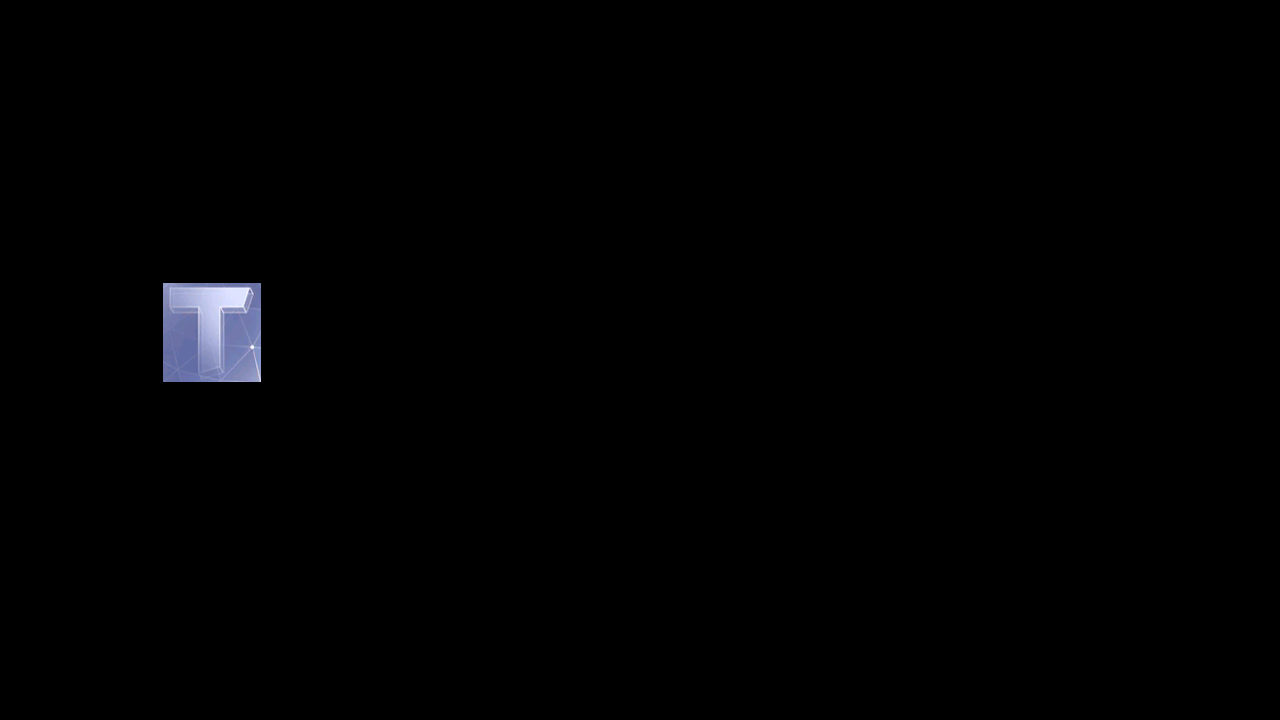
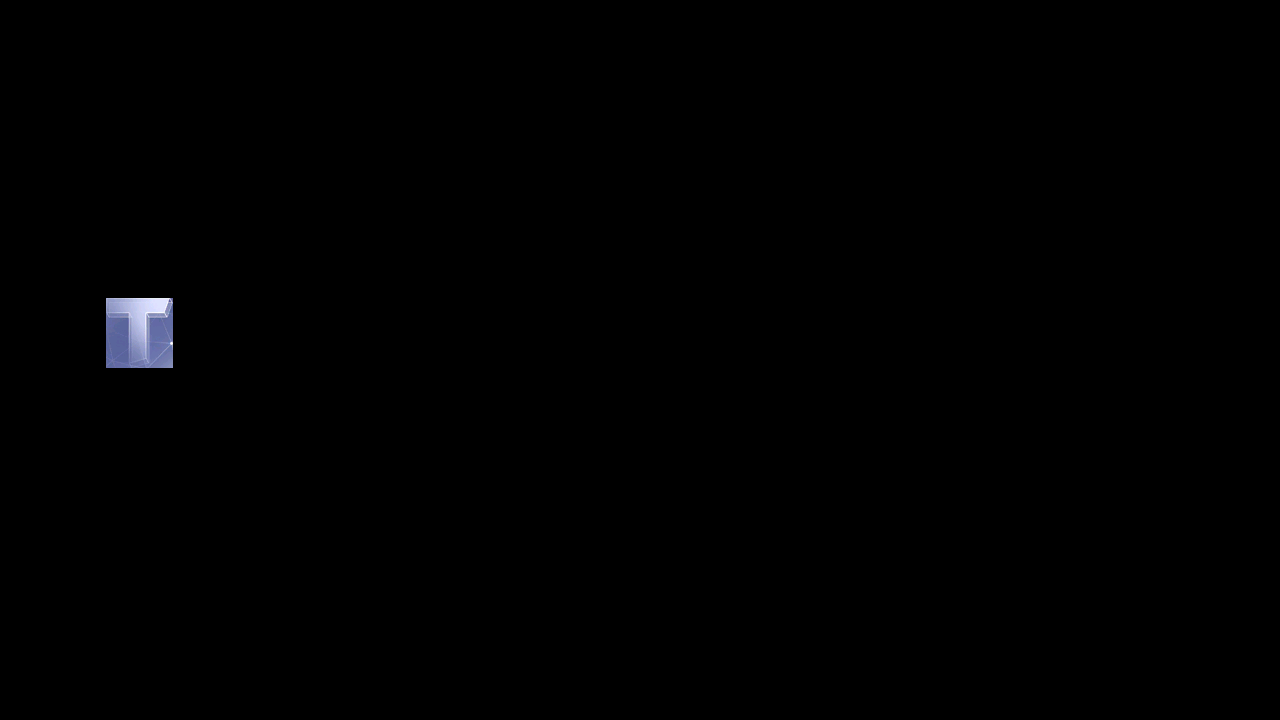
Fix: [EN] RESHMENU_CHECK incorrect as result of operation siren update

Changed region(s): [[0.0625, 0.3667, 0.2188, 0.55]]

diff --git a/module/ui/assets.py b/module/ui/assets.py
@@ -45,7 +45,7 @@ MISSION_CHECK = Button(area={'cn': (120, 15, 173, 40), 'en': (123, 18, 221, 37),
 PLAYER_CHECK = Button(area={'cn': (28, 668, 139, 688), 'en': (11, 649, 157, 705), 'jp': (26, 665, 141, 692), 'tw': (28, 668, 139, 688)}, color={'cn': (237, 204, 127), 'en': (197, 156, 97), 'jp': (228, 187, 117), 'tw': (237, 204, 127)}, button={'cn': (28, 668, 139, 688), 'en': (11, 649, 157, 705), 'jp': (26, 665, 141, 692), 'tw': (28, 668, 139, 688)}, file={'cn': './assets/cn/ui/PLAYER_CHECK.png', 'en': './assets/en/ui/PLAYER_CHECK.png', 'jp': './assets/jp/ui/PLAYER_CHECK.png', 'tw': './assets/tw/ui/PLAYER_CHECK.png'})
 RAID_CHECK = Button(area={'cn': (118, 14, 227, 39), 'en': (115, 9, 262, 42), 'jp': (118, 14, 226, 39), 'tw': (118, 14, 227, 39)}, color={'cn': (143, 161, 202), 'en': (82, 98, 136), 'jp': (149, 167, 206), 'tw': (143, 161, 202)}, button={'cn': (118, 14, 227, 39), 'en': (115, 9, 262, 42), 'jp': (118, 14, 226, 39), 'tw': (118, 14, 227, 39)}, file={'cn': './assets/cn/ui/RAID_CHECK.png', 'en': './assets/en/ui/RAID_CHECK.png', 'jp': './assets/jp/ui/RAID_CHECK.png', 'tw': './assets/tw/ui/RAID_CHECK.png'})
 RESEARCH_CHECK = Button(area={'cn': (118, 15, 170, 39), 'en': (1069, 630, 1167, 642), 'jp': (116, 12, 256, 42), 'tw': (118, 15, 170, 39)}, color={'cn': (165, 179, 215), 'en': (79, 90, 108), 'jp': (129, 145, 185), 'tw': (165, 179, 215)}, button={'cn': (118, 15, 170, 39), 'en': (1069, 630, 1167, 642), 'jp': (116, 12, 256, 42), 'tw': (118, 15, 170, 39)}, file={'cn': './assets/cn/ui/RESEARCH_CHECK.png', 'en': './assets/en/ui/RESEARCH_CHECK.png', 'jp': './assets/jp/ui/RESEARCH_CHECK.png', 'tw': './assets/tw/ui/RESEARCH_CHECK.png'})
-RESHMENU_CHECK = Button(area={'cn': (121, 15, 174, 39), 'en': (163, 283, 261, 382), 'jp': (116, 13, 174, 42), 'tw': (121, 15, 174, 39)}, color={'cn': (156, 171, 209), 'en': (138, 146, 192), 'jp': (136, 149, 186), 'tw': (156, 171, 209)}, button={'cn': (121, 15, 174, 39), 'en': (163, 283, 261, 382), 'jp': (116, 13, 174, 42), 'tw': (121, 15, 174, 39)}, file={'cn': './assets/cn/ui/RESHMENU_CHECK.png', 'en': './assets/en/ui/RESHMENU_CHECK.png', 'jp': './assets/jp/ui/RESHMENU_CHECK.png', 'tw': './assets/tw/ui/RESHMENU_CHECK.png'})
+RESHMENU_CHECK = Button(area={'cn': (121, 15, 174, 39), 'en': (106, 298, 173, 368), 'jp': (116, 13, 174, 42), 'tw': (121, 15, 174, 39)}, color={'cn': (156, 171, 209), 'en': (134, 142, 189), 'jp': (136, 149, 186), 'tw': (156, 171, 209)}, button={'cn': (121, 15, 174, 39), 'en': (106, 298, 173, 368), 'jp': (116, 13, 174, 42), 'tw': (121, 15, 174, 39)}, file={'cn': './assets/cn/ui/RESHMENU_CHECK.png', 'en': './assets/en/ui/RESHMENU_CHECK.png', 'jp': './assets/jp/ui/RESHMENU_CHECK.png', 'tw': './assets/tw/ui/RESHMENU_CHECK.png'})
 RESHMENU_GOTO_RESEARCH = Button(area={'cn': (308, 268, 466, 422), 'en': (308, 268, 466, 422), 'jp': (308, 268, 466, 422), 'tw': (559, 280, 718, 453)}, color={'cn': (132, 147, 184), 'en': (132, 147, 184), 'jp': (132, 147, 184), 'tw': (147, 162, 198)}, button={'cn': (308, 268, 466, 422), 'en': (308, 268, 466, 422), 'jp': (308, 268, 466, 422), 'tw': (559, 280, 718, 453)}, file={'cn': './assets/cn/ui/RESHMENU_GOTO_RESEARCH.png', 'en': './assets/en/ui/RESHMENU_GOTO_RESEARCH.png', 'jp': './assets/jp/ui/RESHMENU_GOTO_RESEARCH.png', 'tw': './assets/tw/ui/RESHMENU_GOTO_RESEARCH.png'})
 REWARD_CHECK = Button(area={'cn': (302, 119, 371, 195), 'en': (302, 119, 371, 195), 'jp': (302, 119, 371, 195), 'tw': (302, 119, 371, 195)}, color={'cn': (146, 118, 120), 'en': (146, 118, 120), 'jp': (146, 118, 120), 'tw': (146, 118, 120)}, button={'cn': (302, 119, 371, 195), 'en': (302, 119, 371, 195), 'jp': (302, 119, 371, 195), 'tw': (302, 119, 371, 195)}, file={'cn': './assets/cn/ui/REWARD_CHECK.png', 'en': './assets/en/ui/REWARD_CHECK.png', 'jp': './assets/jp/ui/REWARD_CHECK.png', 'tw': './assets/tw/ui/REWARD_CHECK.png'})
 REWARD_GOTO_COMMISSION = Button(area={'cn': (383, 262, 503, 302), 'en': (384, 261, 503, 304), 'jp': (383, 262, 502, 302), 'tw': (383, 262, 503, 302)}, color={'cn': (91, 136, 199), 'en': (89, 133, 197), 'jp': (92, 136, 199), 'tw': (91, 136, 199)}, button={'cn': (383, 262, 503, 302), 'en': (384, 261, 503, 304), 'jp': (383, 262, 502, 302), 'tw': (383, 262, 503, 302)}, file={'cn': './assets/cn/ui/REWARD_GOTO_COMMISSION.png', 'en': './assets/en/ui/REWARD_GOTO_COMMISSION.png', 'jp': './assets/jp/ui/REWARD_GOTO_COMMISSION.png', 'tw': './assets/tw/ui/REWARD_GOTO_COMMISSION.png'})
